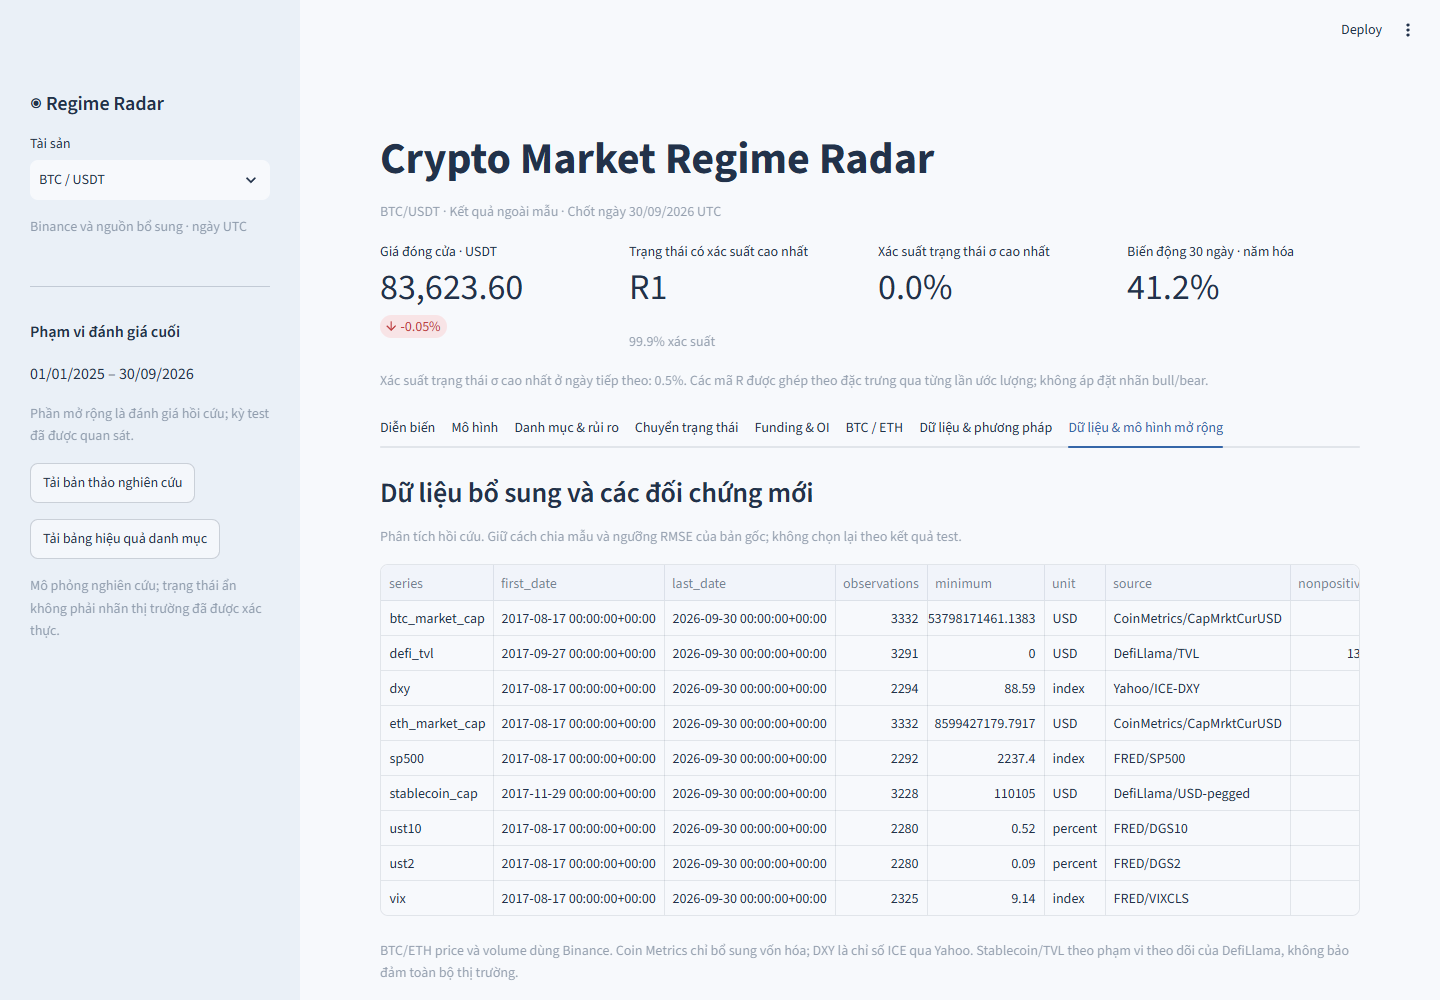
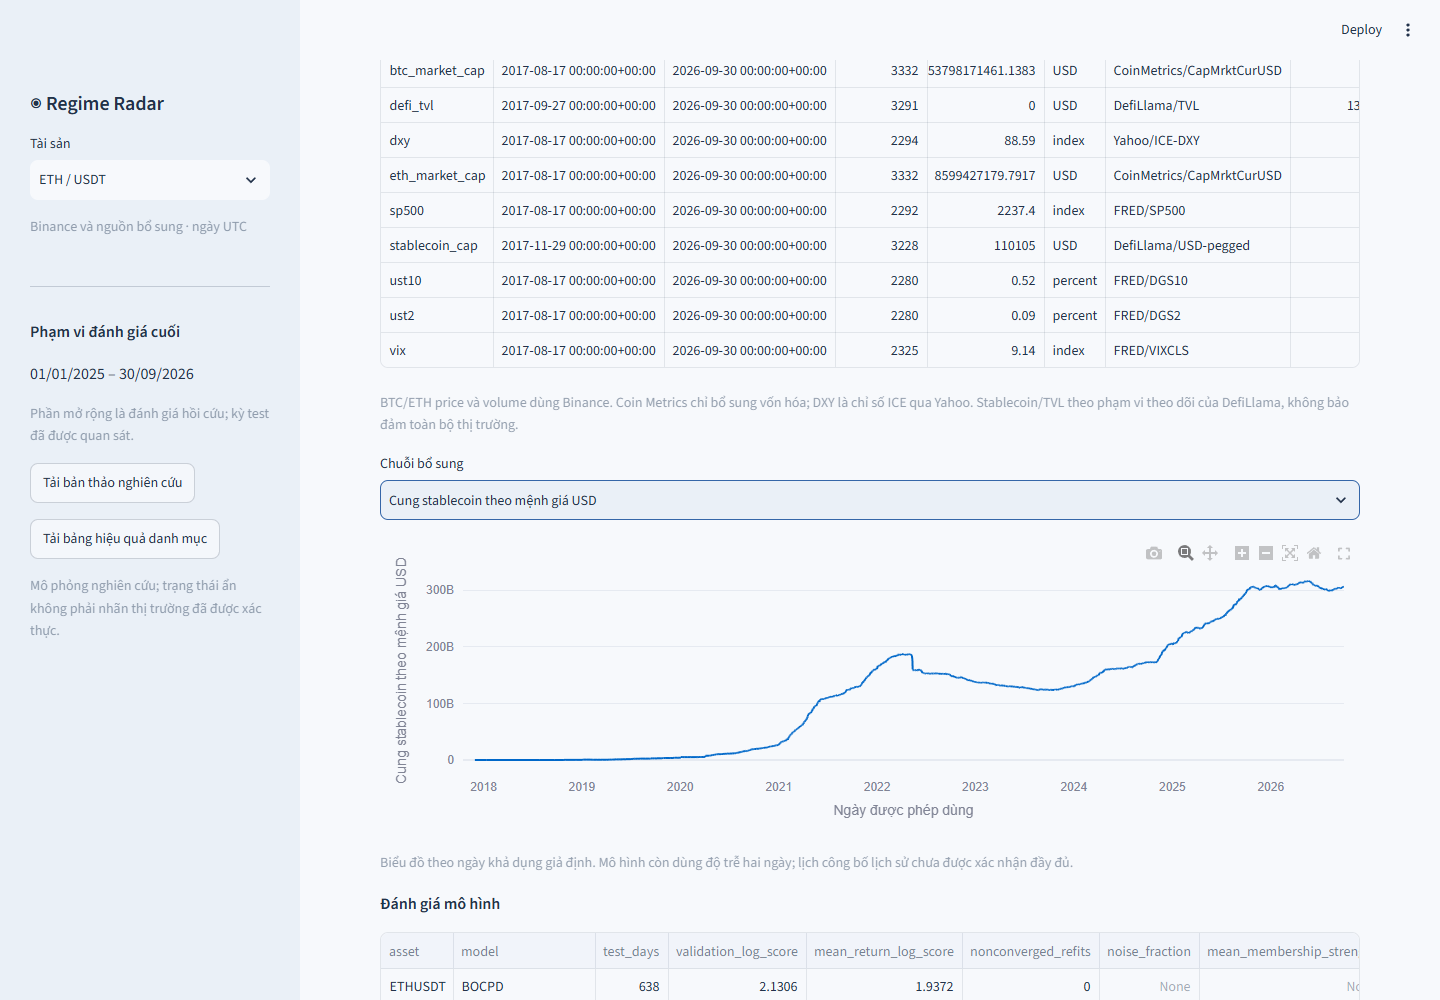
docs: finalize clean-clone verification and extension handover

diff --git a/dashboard.py b/dashboard.py
@@ -49,7 +49,7 @@ with st.sidebar:
     st.caption("Phần mở rộng là đánh giá hồi cứu; kỳ test đã được quan sát.")
     report = ROOT / "paper/bao_cao_nghien_cuu.md"
     if report.exists():
-        st.download_button("Tải bản thảo nghiên cứu", report.read_bytes(),
+        st.download_button("Tải bản thảo gốc (16/10)", report.read_bytes(),
                            file_name="bao_cao_nghien_cuu.md", mime="text/markdown")
     st.download_button("Tải bảng hiệu quả danh mục",
                        (RESULTS / "portfolio_performance.csv").read_bytes(),

diff --git a/tasks/todo.md b/tasks/todo.md
@@ -6,6 +6,8 @@
 - [x] E05 HDBSCAN và BOCPD causal ngoài mẫu.
 - [x] E06 MS-GARCH independent variance và sanity.
 - [x] E07 Kết quả/danh mục/độ nhạy và dashboard.
-- [ ] E08 Clone sạch, test gọn, kiểm chứng invariants, bàn giao.
+- [x] E08 Clone sạch, test gọn, kiểm chứng invariants, bàn giao.
 
 Kết quả: 30 cấu hình bổ sung cho hai tài sản, 638 ngày/cấu hình; tất cả refit cuối hội tụ. HDBSCAN_DENSITY chọn min_cluster_size BTC17/ETH23 trên train; các cấu hình thô thất bại vẫn giữ.
+
+E08 đạt: clone sạch cài 63 pin, 14 tests, tải lại nguồn/khớp hash; verify 141 artifacts gốc +189 artifacts mở rộng/14 inputs; UI BTC/ETH và Edge desktop/mobile đã qua. Không sinh PDF; chưa push.

diff --git a/docs/progress.md b/docs/progress.md
@@ -1,3 +1,5 @@
+> Cập nhật 19/10/2026: đã mở rộng ngoài Binance-only với 30 cấu hình bổ sung. Xem [task mới](../tasks/todo.md), [phương pháp mở rộng](EXTERNAL_METHODS.md) và [QA](extension_qa.json). Nội dung 16/10 bên dưới được giữ như lịch sử bản gốc; bài/PDF cũ chưa cập nhật.
+
 # Tiến trình triển khai và bàn giao
 
 Cập nhật 16/10/2026. Code nằm tại F:\AI_crypto\AI_crypto_regime_detection; remote GitHub đã cấu hình. Chưa push.
